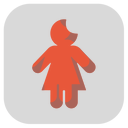
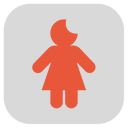
v1.5.1: 주청 테마를 새 시안대로 다시 맞춤(본문 파랑·소제목 코랄, 말풍선 연회색, 막대 코랄+노란 삼각형, 입력창 코랄 테두리), 캐릭터 안쪽 그림자 제거, 막대 아래 삼각형 꼭짓점이 막대 끝(지금 위치)에 딱 맞도록 수정
Claude-Session: https://claude.ai/code/session_01C27RD1xMpTNaPCjSrdqG8D

diff --git a/index.html b/index.html
@@ -53,7 +53,7 @@ header h1 small{display:block;font-size:12px;font-weight:450;color:var(--sub);ma
 .tbar.p i{background:var(--mint-bar2)}
 /* 막대 아래 삼각형: 못 채웠으면 노란색으로 지금 위치를 따라감, 넘기면 막대 끝에서 막대보다 살짝 연한 색 */
 .tb{position:relative;padding-bottom:7px}
-.tri{position:absolute;top:10px;width:0;height:0;border-left:5px solid transparent;border-right:5px solid transparent;border-bottom:6px solid var(--tri);transition:left .3s,transform .3s}
+.tri{position:absolute;top:10px;transform:translateX(-50%);width:0;height:0;border-left:5px solid transparent;border-right:5px solid transparent;border-bottom:6px solid var(--tri);transition:left .3s,transform .3s}
 :root{--tri:#FFC000;--tri-k:#6CC39B;--tri-p:#8FD1B3}
 .tile.over .tri{--tri:var(--tri-k)}.tile.p.over .tri{--tri:var(--tri-p)}
 .pos{color:var(--warm)!important}.neg{color:var(--blue)!important}
@@ -221,29 +221,41 @@ table.hist th:first-child,table.hist td:first-child{text-align:left}
 #viewer{position:fixed;inset:0;z-index:45;touch-action:none;-webkit-user-select:none;user-select:none}
 #viewer .vbg{position:absolute;inset:0;background:#000}
 #vimg{position:absolute;left:50%;top:50%;max-width:100%;max-height:100%;transform-origin:center center;will-change:transform;-webkit-user-drag:none}
-/* ===== 주청 테마 (하늘·주황, v1.5.0) — 청녹이 기본 ===== */
-body.theme-jc{--jb:#1F6F9E;--jc:#E8573A;--jcl:#F4A894}
-.theme-jc header h1{color:var(--jb)}.theme-jc header h1 .me{color:var(--jc)}
-.theme-jc header h1 small{color:var(--jc)}
-.theme-jc #badge img{filter:drop-shadow(1.5px 2.7px 0 #E8573A)}
+/* ===== 주청 테마 (하늘·주황, v1.5.1 PPT 기준) — 청녹이 기본 ===== */
+body.theme-jc{--jb:#1F6F9E;--jb2:#2477A8;--jc:#E8573A;--jcl:#F4A894}
+.theme-jc header h1{color:var(--jb);font-weight:700}.theme-jc header h1 .me{color:var(--jc)}
+.theme-jc header h1 small{color:var(--jc);font-weight:700}
+.theme-jc #badge img{filter:drop-shadow(1.6px 2.7px 0 #E8573A)}
+/* 현황 카드: 진한 파랑 + 오른쪽 아래 코랄 겹침 */
 .theme-jc #summary{background:var(--jb);box-shadow:2.5px 2.5px 0 var(--jc)}
-.theme-jc .tile .lab,.theme-jc .tile .sub,.theme-jc .tile .big,.theme-jc .tile .big small,.theme-jc #summary .s-label{color:#fff}
-.theme-jc .tile .lab{font-weight:600}.theme-jc .tile .sub{font-weight:600}
-.theme-jc .tbar{background:#fff}.theme-jc .tbar i,.theme-jc .tbar.p i{background:var(--jc)}
-.theme-jc{--tri-k:#FFC000;--tri-p:#FFC000}
-.theme-jc .user .bubble{background:#F0F0F0;color:var(--jc)}
-.theme-jc .bot .bubble{background:#F1F5F8;color:var(--jc)}
-.theme-jc .rec{border-top-color:var(--jcl)}.theme-jc .rec-m,.theme-jc .rec em{color:var(--jc)}
-.theme-jc .tag{color:var(--jc);border-color:var(--jcl)}
-.theme-jc #send{background:#F2F2F2;color:var(--jb)}.theme-jc #send:disabled{background:#F2F2F2;color:#9fb8c9}
-.theme-jc #plus{color:var(--jb)}.theme-jc #input{color:var(--jc)}.theme-jc #input::placeholder{color:var(--jb);opacity:.85}
-.theme-jc .icon-btn{color:var(--jb)}
-.theme-jc .panel-h h2,.theme-jc .sheet-h h2,.theme-jc .sec{color:var(--jb)}
-.theme-jc .list-item,.theme-jc .list-item small,.theme-jc .list-item span,.theme-jc .del,.theme-jc table.hist th,.theme-jc table.hist td,.theme-jc .empty,.theme-jc .d-grid,.theme-jc .d-grid small,.theme-jc .s-label{color:var(--jc)}
-.theme-jc .pos,.theme-jc .neg{color:var(--jc)!important}
-.theme-jc .field label,.theme-jc .field input,.theme-jc .field select,.theme-jc .field .unit,.theme-jc .hint,.theme-jc .ver,.theme-jc .usage td,.theme-jc .usage th,.theme-jc .ureset,.theme-jc .urlbox span{color:var(--jc)}
-.theme-jc .btn{background:var(--jb)}.theme-jc .btn.ghost,.theme-jc .btn.danger{background:var(--soft);color:var(--jb)}
-.theme-jc .pull.ready .num{color:var(--jb)}
+.theme-jc .tile .lab,.theme-jc .tile .sub,.theme-jc .tile .big,.theme-jc #summary .s-label{color:#fff;font-weight:700}
+.theme-jc .tile .big small{color:#fff;font-weight:400}
+.theme-jc .tbar,.theme-jc .tbar i,.theme-jc .tbar.p i{background:var(--jc)}
+.theme-jc .tbar{height:6px}
+.theme-jc .tri{border-left-width:7px;border-right-width:7px;top:11px}
+.theme-jc{--tri:#FFFF00;--tri-k:#FFFF00;--tri-p:#FFFF00}
+/* 대화 */
+.theme-jc .user .bubble,.theme-jc .bot .bubble{background:#F2F2F2;color:var(--jb2)}
+.theme-jc .rec{border-top-color:#F6BCB0}
+.theme-jc .rec-row,.theme-jc .rec-m,.theme-jc .rec em{color:var(--jc)}
+.theme-jc .tag{color:var(--jc);border-color:var(--jcl);background:#F1F5F8}
+.theme-jc #composer{border-top-color:#EBF0F3}
+.theme-jc #field{background:#F2F2F2;border-color:var(--jc)}.theme-jc #field:focus-within{background:#F2F2F2;border-color:var(--jc)}
+.theme-jc #plus{color:var(--jb)}.theme-jc #input{color:var(--jb2)}.theme-jc #input::placeholder{color:#A6A6A6}
+.theme-jc #send{background:#F2F2F2;color:var(--jb)}.theme-jc #send:disabled{background:#F2F2F2;color:#A6A6A6}
+/* 기록 화면 */
+.theme-jc .panel-h h2{color:var(--jb)}.theme-jc .panel-h .icon-btn{color:var(--jc)}
+.theme-jc .sec{color:var(--jc);font-weight:700}
+.theme-jc .list-item,.theme-jc .list-item small,.theme-jc .list-item span,.theme-jc .del,.theme-jc table.hist th,.theme-jc table.hist td,.theme-jc .empty,.theme-jc .d-grid,.theme-jc .d-grid small,.theme-jc .s-label{color:var(--jb)}
+.theme-jc .list-item span[style]{color:var(--jb)!important}
+.theme-jc .pos,.theme-jc .neg{color:var(--jb)!important}
+.theme-jc .pull.ready .num{color:var(--jc)}
+/* 설정 */
+.theme-jc .sheet-h h2{color:var(--jb2)}.theme-jc .sheet-h .icon-btn{color:var(--jb)}
+.theme-jc .field label,.theme-jc .field input,.theme-jc .field select,.theme-jc .field .unit,.theme-jc .hint,.theme-jc .ver,.theme-jc .usage td,.theme-jc .usage th,.theme-jc .ureset,.theme-jc .ureset button,.theme-jc .urlbox span,.theme-jc .urlbox button{color:var(--jb)}
+.theme-jc .field select{font-weight:700}
+.theme-jc .urlbox{background:#fff;border-color:#BFBFBF}
+.theme-jc .btn{background:var(--jb2);box-shadow:inset 0 0 0 1px var(--jb)}.theme-jc .btn.ghost,.theme-jc .btn.danger{background:var(--soft);color:var(--jb);box-shadow:none}
 </style>
 </head>
 <body>
@@ -343,7 +355,7 @@ body.theme-jc{--jb:#1F6F9E;--jc:#E8573A;--jcl:#F4A894}
 /* ============ 저장소 ============ */
 const LS = 'dietnote.v1';
 const APP_NAME = 'Bite with me!';
-const APP_VERSION = 'v1.5.0';       // 설정창 하단 표시. sw.js 캐시 이름과 같게 맞출 것
+const APP_VERSION = 'v1.5.1';       // 설정창 하단 표시. sw.js 캐시 이름과 같게 맞출 것
 const DEFAULT_MODEL = 'gemini-flash-latest';
 const KCAL_PER_KG = 7700;
 const NEW_DAY_HOUR = 4;               // 이 시각 이전은 전날로 취급
@@ -1199,8 +1211,8 @@ function renderSummary(){
   $('#dayLabel').textContent = dayTitle(d.id);
   const pct = s.tk? Math.min(100, s.intake/s.tk*100) : 0, ppct = s.tp? Math.min(100, s.protein/s.tp*100):0;
   const over = s.remain<0, pOver = s.protRemain<0;    // 감량·증량 구분 없이 같은 표시
-  // 삼각형: 막대가 찬 끝(지금 위치)을 따라감. 0%면 왼쪽 끝, 100%면 오른쪽 끝에 맞춤
-  const tri = v => `<b class="tri" style="left:${v}%;transform:translateX(-${v}%)"></b>`;
+  // 삼각형: 꼭짓점(가운데)이 막대가 찬 끝(지금 위치)에 오게. 넘겨서 꽉 차면 막대 오른쪽 끝에 딱 맞음
+  const tri = v => `<b class="tri" style="left:${v}%"></b>`;
   el.innerHTML = `<div class="tiles num">
     <div class="tile ${over?'over':''}"><div class="lab">${over?'초과 칼로리':'남은 칼로리'}</div>
       <div class="big">${over?'+':''}${N(Math.abs(s.remain))}<small>kcal</small></div>

diff --git a/sw.js b/sw.js
@@ -1,6 +1,6 @@
 // 버전 기록: dietnote-v10 이후로 버전 번호를 다시 시작(리부트)함. v2.1 다음 업데이트부터 v1.2.1 체계로 정함.
 // 캐시 이름은 설정창 하단에 표시되는 버전(index.html의 APP_VERSION)과 같게 맞춘다.
-const V = 'dietnote-v1.5.0';
+const V = 'dietnote-v1.5.1';
 const SHELL = ['./', './index.html', './manifest.json', './icon-192.png', './icon-512.png', './apple-touch-icon.png', './badge-male.png', './badge-female.png', './badge-male-jc.png', './badge-female-jc.png', './sfx/tung.wav'];
 self.addEventListener('install', e => {
   // 설치할 때도 캐시 말고 서버에서 새로 받음
